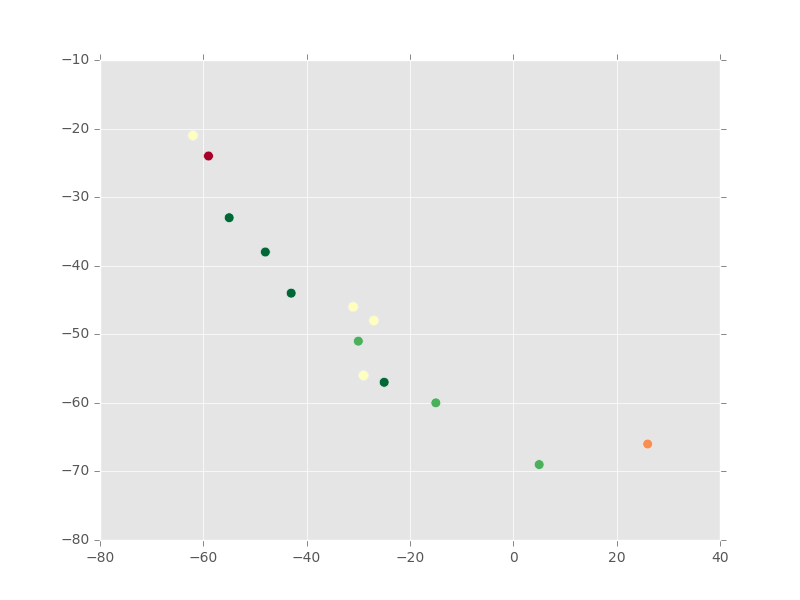
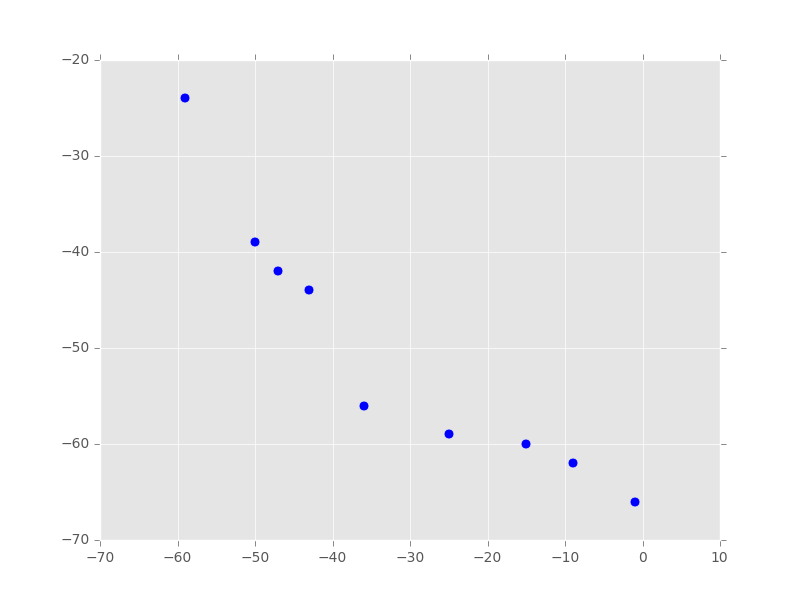
Working BOKP and figures fixed, EP duplicates removed

diff --git a/moea-d-2.py b/moea-d-2.py
@@ -2,7 +2,7 @@
 """
 A script for solving multi-objective optimization problems using an evolutionary algorithm.
 """
-import random
+import random, time
 import numpy as np
 import matplotlib.pyplot as plt
 plt.style.use('ggplot')
@@ -14,7 +14,7 @@ from parse_lpfile import lp_parser
 
 ########## MOEA/D + RUNTIME PARAMETERS ##########
 T = 10      # number of neighbors
-MAXGEN = 10
+MAXGEN = 50
 VERBOSE = True
 
 opt_prob = 'problem_instances/0-1_knapsack/BOKP_lp_format_instances/kp_20_1.lp'
@@ -57,6 +57,7 @@ for generation in range(MAXGEN):
 	if VERBOSE and generation%1 == 0:
 		print(generation)
 	for i in range(N): # for each subproblem
+		tstart = time.time()
 		parents = np.random.choice(subproblem_list[i].B,2,replace = False)
 		parent1 = subproblem_list[parents[0]].cur_solution
 		parent2 = subproblem_list[parents[1]].cur_solution
@@ -66,6 +67,8 @@ for generation in range(MAXGEN):
 
 		mutated_offspring = offspring.mutation_operator2(0.1, opt_prob)
 		offspring = mutated_offspring
+		tend = time.time()
+		# print('Creating feasible new offspring took %s seconds'%(tend-tstart))
         # if not mutated_offspring.feasible:
         #     for mc in range(3):
         #         mutated_offspring = repair(mutated_offspring, offspring, opt_prob)
@@ -77,20 +80,24 @@ for generation in range(MAXGEN):
 		ideal_Z = np.minimum(ideal_Z,offspring.objective_val)   # minimizing element-wise
 
 		for j in subproblem_list[i].B:
-			subproblem_list[j].cur_solution = subproblem_list[j].cur_solution.give_the_best_of(offspring,
-                                                                                               subproblem_list[j].lam,
-                                                                                               ideal_Z)
-		EP = remove_newly_dominated_solutions(EP, offspring, objective_sense='min')
-		EP = add_if_not_dominated(offspring, EP, objective_sense='min')
+			subproblem_list[j].cur_solution = subproblem_list[j].cur_solution.give_the_best_of(offspring, subproblem_list[j].lam,ideal_Z)
 
-	if generation%1 == 0 and generation > 1:
-		Z1 = [es.objective_val[0] for es in EP]
-		Z2 = [es.objective_val[1] for es in EP]
-		print Z1
-		print Z2
-		x_vector = [es.x for es in EP]
-		es_generation = [es.generation for es in EP]
-		plt.scatter(Z1, Z2, c=es_generation, cmap=plt.cm.RdYlGn, s=50)
+		EP = remove_newly_dominated_solutions(EP, offspring, objective_sense='min')
+		# print('Filtered EP')
+		# print [es.objective_val for es in EP]
+		EP = add_if_not_dominated(offspring, EP, objective_sense='min')
+	# print('Added EP')
+	# print [es.objective_val for es in EP]
+	# print('---------')
+		
+	# if generation%1 == 0 and generation > 1:
+	# 	Z1 = [es.objective_val[0] for es in EP]
+	# 	Z2 = [es.objective_val[1] for es in EP]
+	# 	# print Z1
+	# 	# print Z2
+	# 	x_vector = [es.x for es in EP]
+	# 	es_generation = [es.generation for es in EP]
+	# 	plt.scatter(Z1, Z2, c=es_generation, cmap=plt.cm.RdYlGn, s=50)
 
 		# plot_z1 = np.arange(min(Z1),max(Z1), 0.1)   #f1value
 		# plot_z2 = [1 - np.sqrt(z1val) for z1val in plot_z1]
@@ -98,4 +105,7 @@ for generation in range(MAXGEN):
 		# plt.ylim(ymin=0,ymax=6)
 		# plt.xlim(xmin=0,xmax=1.2)
 
-		plt.savefig('figures/generation%s.png'%generation)
+		# plt.savefig('figures/generation%s.png'%generation)
+	plt.scatter([es.objective_val[0] for es in EP], [es.objective_val[1] for es in EP], s=50)
+	plt.savefig('figures/generation%s.png'%generation)
+	plt.close()

diff --git a/utils.py b/utils.py
@@ -92,20 +92,26 @@ def remove_newly_dominated_solutions(EP, offspring, objective_sense='min'):
 		# print('efficient solution objective val')
 		# print(es.objective_val)
 		if objective_sense == 'min':
-			if np.greater_equal(es.objective_val, offspring.objective_val).all() and not np.equal(es.objective_val, offspring.objective_val).all():
+			if np.equal(es.objective_val, offspring.objective_val).all():
 				es_dominated_by_offspring = True
-				print('offspring objective val')
-				print(offspring.objective_val)
-				print('efficient solution objective val')
-				print(es.objective_val)
+			elif np.greater_equal(es.objective_val, offspring.objective_val).all() and not np.equal(es.objective_val, offspring.objective_val).all():
+				es_dominated_by_offspring = True
+				# print('offspring objective val')
+				# print(offspring.objective_val)
+				# print('efficient solution objective val')
+				# print(es.objective_val)
 		elif objective_sense == 'max':
-			if np.less_equal(es.objective_val, offspring.objective_val) and not np.equal(es.objective_val, offspring.objective_val):
+			if np.equal(es.objective_val, offspring.objective_val).all():
+				es_dominated_by_offspring = True
+			elif np.less_equal(es.objective_val, offspring.objective_val) and not np.equal(es.objective_val, offspring.objective_val):
 				es_dominated_by_offspring = True
 		else:
 			raise ValueError('Objective sense should be either "min" or "max".')
 		if not es_dominated_by_offspring:
 			filtered_EP.append(es)
-
+		# else:
+		# 	print('offspring:')
+		# 	print offspring.objective_val
 	return filtered_EP
 
 def add_if_not_dominated(offspring, EP, objective_sense='min'):
@@ -118,15 +124,21 @@ def add_if_not_dominated(offspring, EP, objective_sense='min'):
 	offspring_dominated_by_EP = False
 	for es in EP:
 		if objective_sense == 'min':
-			if np.less_equal(es.objective_val, offspring.objective_val).all() and not np.equal(es.objective_val, offspring.objective_val).all():
+			if np.equal(es.objective_val, offspring.objective_val).all():
+				offspring_dominated_by_EP = True
+			elif np.less_equal(es.objective_val, offspring.objective_val).all() and not np.equal(es.objective_val, offspring.objective_val).all():
 				offspring_dominated_by_EP = True
 		elif objective_sense == 'max':
-			if np.greater_equal(es.objective_val, offspring.objective_val).all() and not np.equal(es.objective_val, offspring.objective_val).all():
+			if np.equal(es.objective_val, offspring.objective_val).all():
+				offspring_dominated_by_EP = True
+			elif np.greater_equal(es.objective_val, offspring.objective_val).all() and not np.equal(es.objective_val, offspring.objective_val).all():
 				offspring_dominated_by_EP = True
 		else:
 			raise ValueError('Objective sense should be either "min" or "max".')
 	if not offspring_dominated_by_EP:
 		EP.append(offspring)
+		# print('offspring:')
+		# print offspring.objective_val
 		# print(offspring.objective_val)
 
 	return EP
